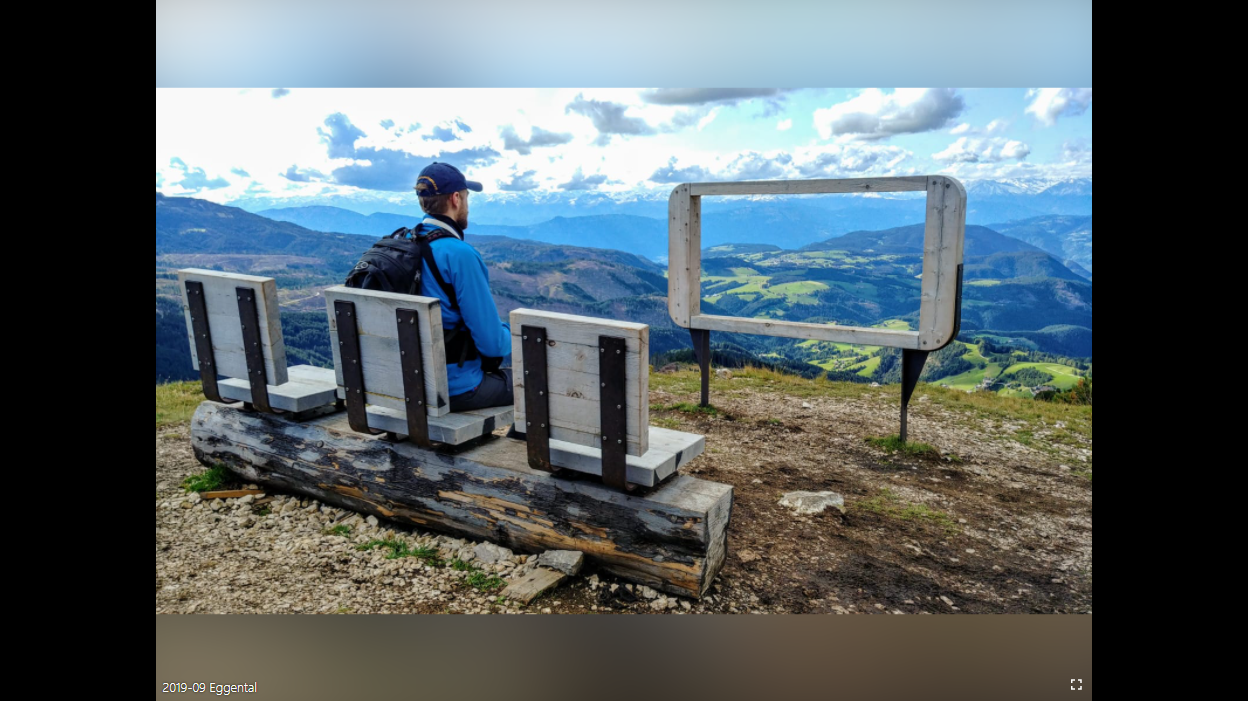
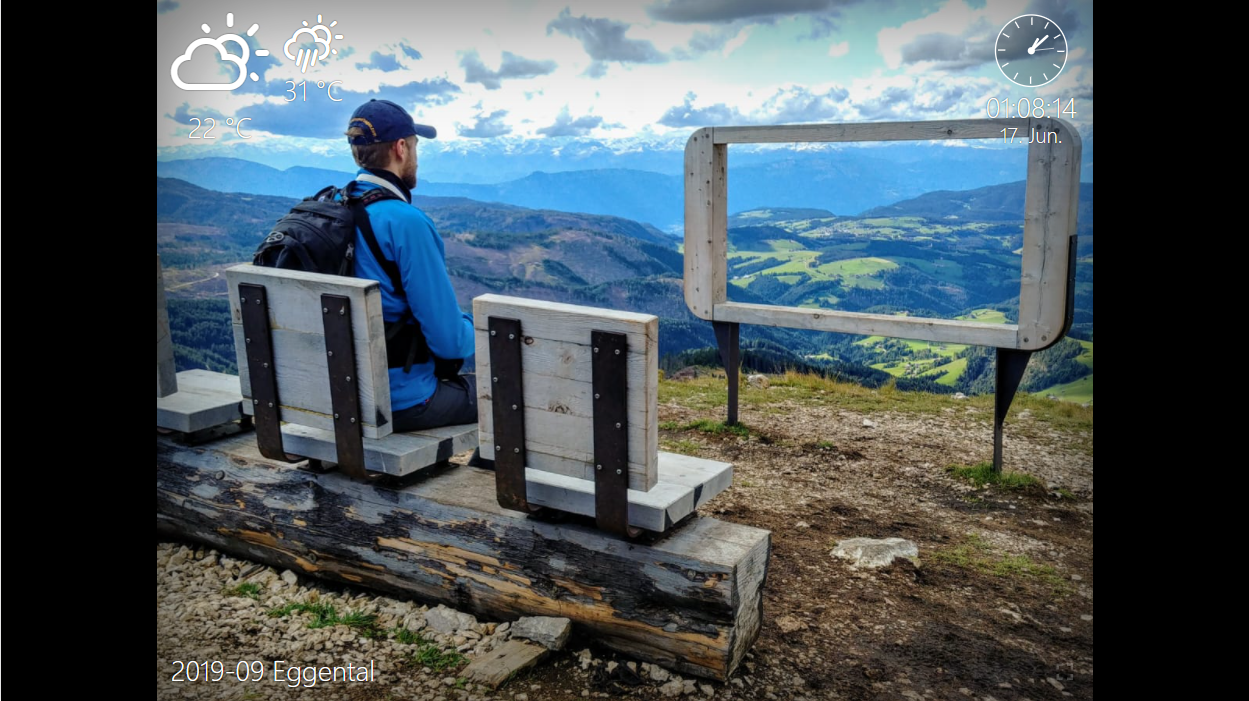
update readme

diff --git a/README.md b/README.md
@@ -10,6 +10,10 @@ Features:
 
 - The photo is resized to fit the screen. The remaining screen space is filled with a blurred variant of the image.
 
+- The current weather and tomorrow's weather are shown as icon and temperature
+
+- The current time and date is shown.
+
 - The album title is shown at the bottom of the screen.
 
 - A button toggles the fullscreen browser mode.
